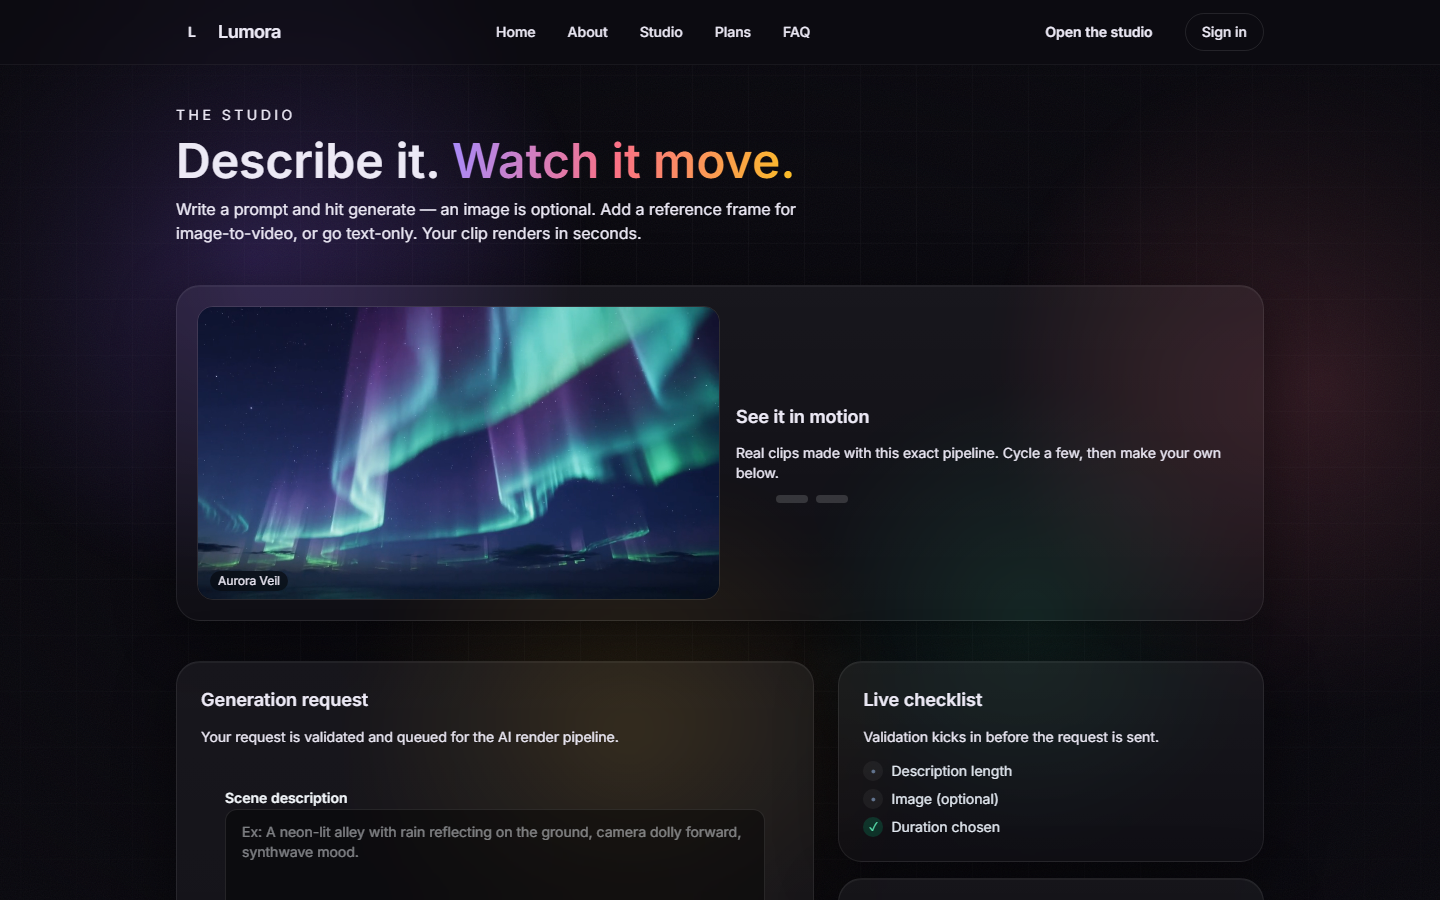
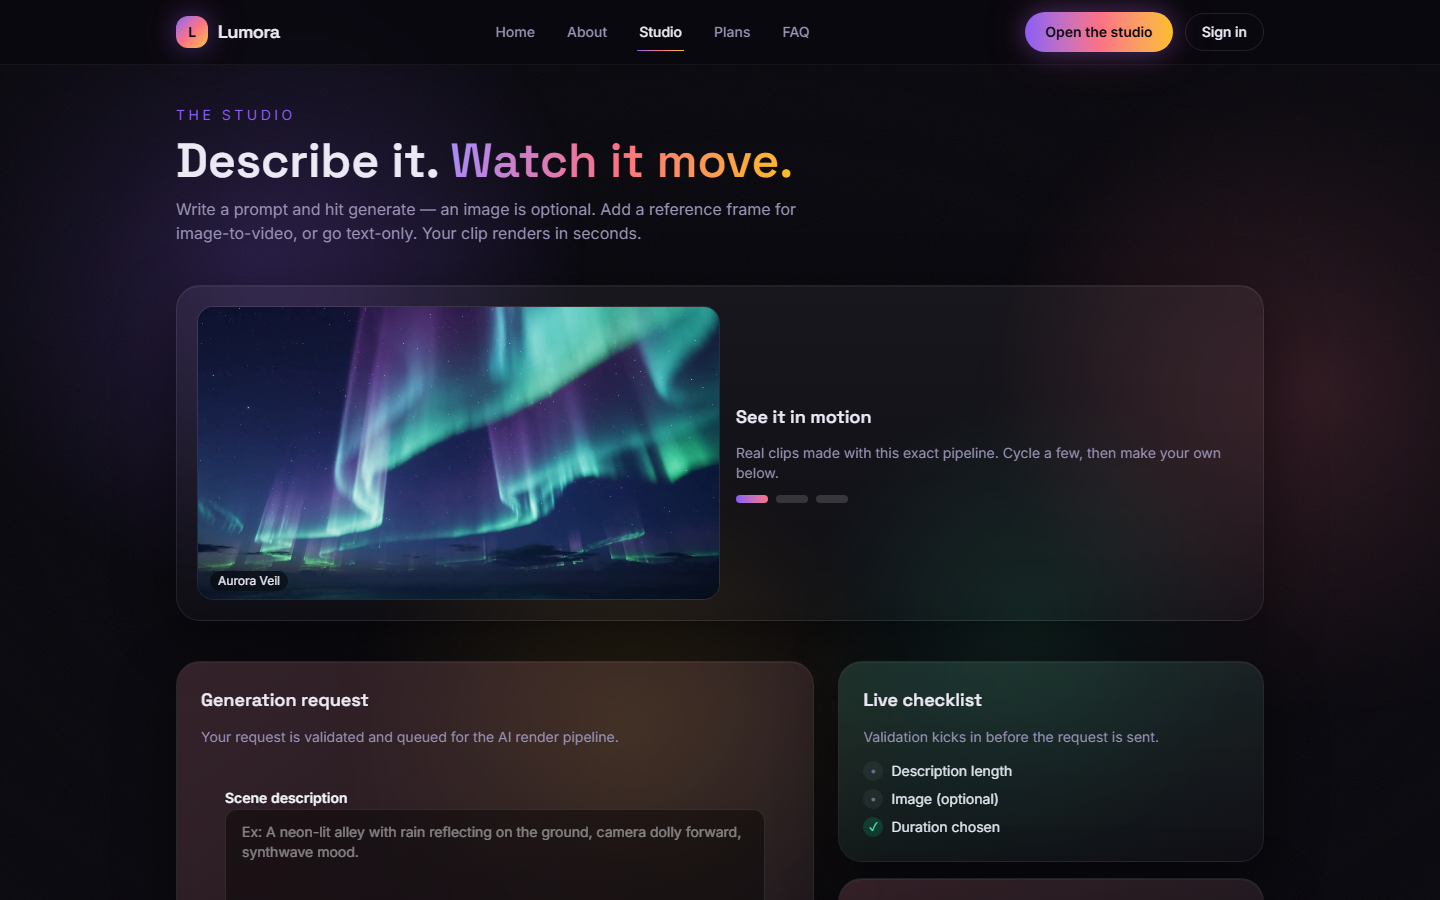
Fix missing Tailwind custom utilities (primary buttons had no background)
Tailwind v4 does not auto-load tailwind.config.ts; without @user in
globals.css every aura-* color, shadow-glow, rounded-4xl and font-display
utility compiled to nothing, leaving primary buttons as borderless bare
text. Add the @user directive and refresh README screenshots.

diff --git a/src/app/globals.css b/src/app/globals.css
@@ -1,4 +1,7 @@
 @import "tailwindcss";
+/* Tailwind v4 does not auto-load tailwind.config.ts — without this line all
+   custom utilities (aura-* colors, shadow-glow, rounded-4xl, font-display) vanish. */
+@config "../../tailwind.config.ts";
 
 :root {
   color-scheme: dark;

diff --git a/docs/CHANGELOG.md b/docs/CHANGELOG.md
@@ -2,6 +2,13 @@
 
 Newest first. Format: `## YYYY-MM-DD` then `- what — why`.
 
+## 2026-06-11 (Tailwind config fix — primary buttons had no background)
+- Tailwind v4 doesn't auto-load `tailwind.config.ts`, so every custom utility (aura-*
+  colors, shadow-glow, rounded-4xl, font-display) silently produced nothing — primary
+  buttons rendered as bare text with no background/border (reported on Plans "Go Pro"
+  and the home hero). Fix: `@config "../../tailwind.config.ts";` in globals.css.
+  Restores the full gradient brand identity site-wide. README screenshots re-shot.
+
 ## 2026-06-11 (GitHub + Vercel launch, Kling showcase)
 - Published the project: GitHub repo `randomZname/lumora` (public) + Vercel production
   deploy at https://lumora-delta-lyart.vercel.app. Repo hygiene: `/media`, `/public/uploads`,